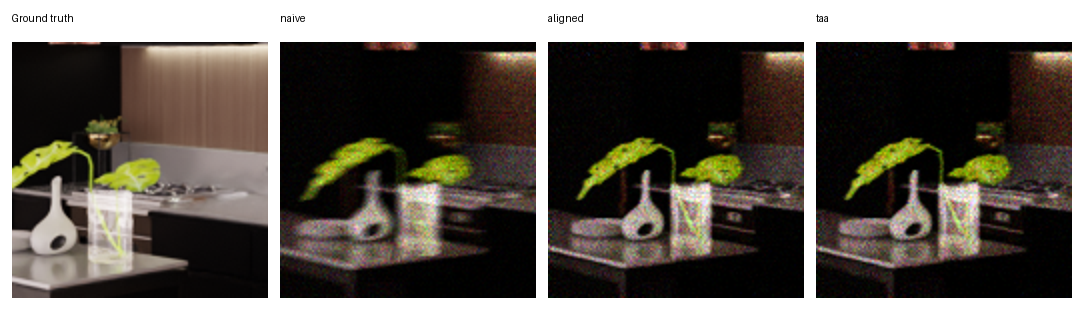
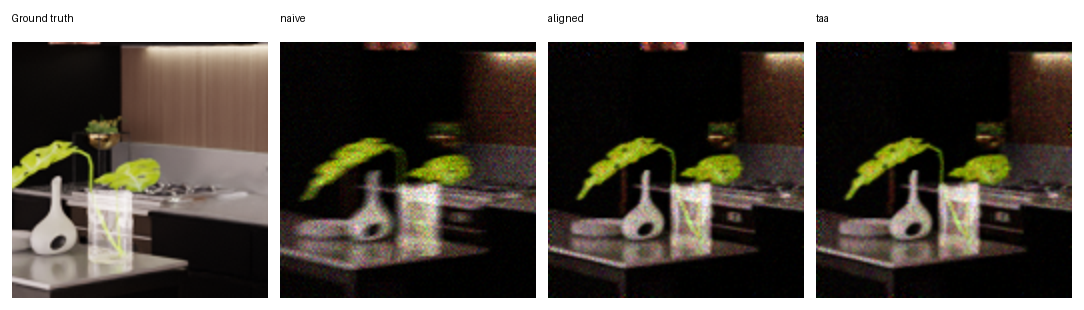
Use reference= instead of reversing bursts in report-table harness
Rebases the Track 4 harness work onto develop after PRs #42 and #43 added
reference= to aligned_average and reconstruct_taa. Reversing the cube would
now swap the first/last labels. Tests and docs updated; sample results
regenerated.

diff --git a/scripts/run_evaluation.py b/scripts/run_evaluation.py
@@ -4,8 +4,9 @@ Examples:
   py scripts/run_evaluation.py --samples data/samples/kitchen1_000000.npz data/samples/kitchen1_000001.npz
   py scripts/run_evaluation.py --scene-dir data/train/kitchen1 --bursts 0 1 10 --crop 250 550 248 552 --frames 1024 --reference last
 
-Reference 'last' reproduces the mid-term report's time-reversed burst
-convention. Every reconstruction uses the same fixed gain (default 2.7).
+Reference 'last' aligns every group to the final group of the burst (the pose
+the ground truth was captured at) via the reference= argument of the pipeline;
+frames are never reversed. Every reconstruction uses the same fixed gain (default 2.7).
 """
 import argparse
 import csv
@@ -60,8 +61,8 @@ def _custom_pipeline(spec, cube, group_size):
     return result
 
 
-def _select_cube(cube, frames=None, crop=None, reference='first'):
-    """Select frames/crop before reconstruction; reverse time for last ref."""
+def _select_cube(cube, frames=None, crop=None):
+    """Select the first N frames and the crop, in original time order."""
     if frames is not None:
         if frames > len(cube):
             raise ValueError(f'requested {frames} frames, only {len(cube)} available')
@@ -71,32 +72,27 @@ def _select_cube(cube, frames=None, crop=None, reference='first'):
         if not (0 <= y0 < y1 <= cube.shape[1] and 0 <= x0 < x1 <= cube.shape[2]):
             raise ValueError(f'crop {crop} is outside the {cube.shape[1:3]} image')
         cube = cube[:, y0:y1, x0:x1]
-    if reference == 'last':
-        cube = cube[::-1]
     return cube
 
 
-def _reconstruct(cube, group_size, extras, report_table=False):
+def _reconstruct(cube, group_size, extras, reference='first', report_table=False):
     if report_table:
-        # Table 1 compared the first and last reference and a clamp-only TAA.
-        # The original last-reference convention runs the same code with time reversed.
-        original = cube
-        reversed_cube = original[::-1]
+        # Table 1 variants. Reference is selected with reference=, not by reversing time.
+        clamp_only = TAAConfig(clamp=True, adaptive=False)
         return {
-            'naive': naive_average(original),
-            'aligned_first': aligned_average(original, group_size)[0],
-            'aligned_last': aligned_average(reversed_cube, group_size)[0],
+            'naive': naive_average(cube),
+            'aligned_first': aligned_average(cube, group_size, reference='first')[0],
+            'aligned_last': aligned_average(cube, group_size, reference='last')[0],
             'clamp_only_last': reconstruct_taa(
-                reversed_cube, group_size, TAAConfig(clamp=True, adaptive=False)
-            ).reconstruction,
+                cube, group_size, clamp_only, reference='last').reconstruction,
             'taa_last': reconstruct_taa(
-                reversed_cube, group_size, TAAConfig()
-            ).reconstruction,
+                cube, group_size, TAAConfig(), reference='last').reconstruction,
         }
 
     methods = {'naive': naive_average(cube),
-               'aligned': aligned_average(cube, group_size, reference="first")[0],
-               'taa': reconstruct_taa(cube, group_size, TAAConfig()).reconstruction}
+               'aligned': aligned_average(cube, group_size, reference=reference)[0],
+               'taa': reconstruct_taa(cube, group_size, TAAConfig(),
+                                      reference=reference).reconstruction}
     for spec in extras:
         label = spec.replace(':', '_')
         if label in methods:
@@ -110,11 +106,11 @@ def _sample_images(path, group_size, extras, frames=None, crop=None, reference='
     gt_path = path.with_name(path.stem + '_gt.png')
     with Image.open(gt_path) as image:
         gt = np.asarray(image.convert('RGB'), dtype=np.float32) / 255
-    cube = _select_cube(cube, frames, crop, 'first' if report_table else reference)
+    cube = _select_cube(cube, frames, crop)
     if crop is not None:
         y0, y1, x0, x1 = crop
         gt = gt[y0:y1, x0:x1]
-    return gt, _reconstruct(cube, group_size, extras, report_table), len(cube)
+    return gt, _reconstruct(cube, group_size, extras, reference, report_table), len(cube)
 
 
 def _full_images(scene_dir, index, group_size, extras, frames, crop, reference, report_table=False):
@@ -124,10 +120,8 @@ def _full_images(scene_dir, index, group_size, extras, frames, crop, reference, 
         raise ValueError(f'burst {index}: requested {frames} frames, got {len(cube)}')
     if not len(cube) or min(cube.shape[1:3]) < 2:
         raise ValueError(f'burst {index}: empty or too-small cube')
-    if reference == 'last' and not report_table:
-        cube = cube[::-1]
     gt = load_gt(scene_dir, index=index, crop=crop)
-    return gt, _reconstruct(cube, group_size, extras, report_table), len(cube)
+    return gt, _reconstruct(cube, group_size, extras, reference, report_table), len(cube)
 
 
 def _archive_images(path):
@@ -163,11 +157,11 @@ def main(argv=None):
                         help='indices in --scene-dir; default: 0 1 10')
     parser.add_argument('--crop', nargs=4, metavar=('Y0', 'Y1', 'X0', 'X1'), type=int,
                         help='pixel bounds, exclusive upper end; full-burst X bounds multiples of 8')
-    parser.add_argument('--frames', type=int, help='use the first N frames (before reversing)')
+    parser.add_argument('--frames', type=int, help='use the first N frames')
     parser.add_argument('--report-table', action='store_true',
                         help='compute all five original Table 1 method variants with PSNR and SSIM')
     parser.add_argument('--reference', choices=('first', 'last'), default='first',
-                        help='last reverses time exactly as in mid-term Table 1')
+                        help='align to the first or last group (ignored with --report-table)')
     parser.add_argument('--group-size', type=int, default=64)
     parser.add_argument('--gain', type=float, default=DEFAULT_EVALUATION_GAIN,
                         help='same fixed reconstruction gain for all scenes/methods; default 2.7')
@@ -182,6 +176,8 @@ def main(argv=None):
     crop = _check_crop(args.crop, parser, packed=args.scene_dir is not None)
     if args.report_table and args.pipeline:
         parser.error('--report-table uses the five original methods; additional --pipeline not supported')
+    if args.pipeline and args.reference == 'last':
+        parser.error('--pipeline functions take no reference argument; use --reference first')
     if args.archives and args.report_table:
         parser.error('--report-table requires raw cubes, not precomputed archives')
     if args.archives and (args.pipeline or args.frames is not None or crop is not None or args.reference != 'first'):
@@ -248,13 +244,13 @@ def main(argv=None):
             'scene_dir': str(args.scene_dir) if args.scene_dir else None,
             'bursts': args.bursts if args.scene_dir else None,
             'crop_y0_y1_x0_x1': list(crop) if crop is not None else None,
-            'frame_selection': 'first N frames, then reverse for last reference' if args.frames is not None else 'all available frames, reverse for last reference',
+            'frame_selection': 'first N frames, original time order' if args.frames is not None else 'all available frames, original time order',
             'frames_requested': args.frames,
             'frames_used': counts_by_burst,
             'group_size': args.group_size if not args.archives else None,
             'reference_group': ('mixed first/last as in Table 1' if args.report_table else args.reference) if not args.archives else 'unknown; precomputed archive',
             'report_table_variants': args.report_table,
-            'reference_implementation': 'reverse full selected cube for last-group methods; preserve first group for aligned_first' if args.report_table else 'reverse the frame order; existing first-group pipeline selects original last group' if args.reference == 'last' and not args.archives else 'native first group or precomputed archive',
+            'reference_implementation': 'reference= argument of aligned_average and reconstruct_taa; frames are never reversed',
             'intensity_rule': 'clip(gain * reconstruction, 0, 1)',
             'intensity_policy': 'fixed gain for all methods/scenes; no per-image or GT-fitted gains',
             'gain': args.gain,

diff --git a/tests/test_evaluation_harness.py b/tests/test_evaluation_harness.py
@@ -11,18 +11,17 @@ from scripts.run_evaluation import (_check_crop, _full_images, _select_cube, _re
 
 
 class HarnessTests(unittest.TestCase):
-    def test_last_reference_is_time_reversal_after_frame_selection(self):
+    def test_frame_selection_keeps_time_order(self):
         cube = np.arange(6, dtype=np.uint8).reshape(6, 1, 1, 1)
-        selected = _select_cube(cube, frames=4, reference='last')
-        np.testing.assert_array_equal(selected[:, 0, 0, 0], [3, 2, 1, 0])
-        np.testing.assert_array_equal(cube[:, 0, 0, 0], np.arange(6))
+        selected = _select_cube(cube, frames=4)
+        np.testing.assert_array_equal(selected[:, 0, 0, 0], [0, 1, 2, 3])
 
     def test_crop_applies_to_cube(self):
         cube = np.arange(4 * 8 * 16 * 3, dtype=np.int32).reshape(4, 8, 16, 3)
         selected = _select_cube(cube, frames=3, crop=(2, 6, 8, 16))
         np.testing.assert_array_equal(selected, cube[:3, 2:6, 8:16])
 
-    def test_full_burst_reverses_before_reconstruction(self):
+    def test_full_burst_is_not_reversed(self):
         cube = np.arange(5, dtype=np.uint8)[:, None, None, None]
         cube = np.broadcast_to(cube, (5, 8, 8, 3)).copy()
         gt = np.zeros((8, 8, 3), dtype=np.float32)
@@ -30,20 +29,23 @@ class HarnessTests(unittest.TestCase):
               patch('scripts.run_evaluation.load_gt', return_value=gt),
               patch('scripts.run_evaluation._reconstruct', return_value={'naive': gt}) as recon):
             out_gt, _, count = _full_images('unused', 10, 64, [], 5, None, 'last')
-        np.testing.assert_array_equal(recon.call_args.args[0][0], 4)
-        np.testing.assert_array_equal(recon.call_args.args[0][-1], 0)
+        np.testing.assert_array_equal(recon.call_args.args[0][0], 0)
+        np.testing.assert_array_equal(recon.call_args.args[0][-1], 4)
+        self.assertEqual(recon.call_args.args[3], 'last')
         self.assertEqual(count, 5)
         np.testing.assert_array_equal(out_gt, gt)
 
     def test_report_table_five_variants(self):
         from src.taa import TAAResult
         cube = np.random.default_rng(7).integers(0, 2, (4, 8, 16, 3), dtype=np.uint8)
-        with (patch('scripts.run_evaluation.aligned_average', side_effect=lambda c, g: (c[0].astype(np.float32), None)) as align,
-              patch('scripts.run_evaluation.reconstruct_taa', side_effect=lambda c, g, config: TAAResult(c[0].astype(np.float32), None, None, None, None)) as taa):
+        with (patch('scripts.run_evaluation.aligned_average',
+                    side_effect=lambda c, g, reference: (c[0 if reference == 'first' else -1].astype(np.float32), None)) as align,
+              patch('scripts.run_evaluation.reconstruct_taa',
+                    side_effect=lambda c, g, config, reference: TAAResult(c[-1].astype(np.float32), None, None, None, None)) as taa):
             results = _reconstruct(cube, 2, [], report_table=True)
         self.assertEqual(set(results), {'naive', 'aligned_first', 'aligned_last', 'clamp_only_last', 'taa_last'})
-        self.assertEqual(align.call_count, 2)
-        self.assertEqual(taa.call_count, 2)
+        self.assertEqual([c.kwargs['reference'] for c in align.call_args_list], ['first', 'last'])
+        self.assertEqual([c.kwargs['reference'] for c in taa.call_args_list], ['last', 'last'])
         np.testing.assert_array_equal(results['aligned_first'], cube[0])
         np.testing.assert_array_equal(results['aligned_last'], cube[-1])
         self.assertFalse(taa.call_args_list[0].args[2].adaptive)

diff --git a/docs/midTerm-evaluation.md b/docs/midTerm-evaluation.md
@@ -14,7 +14,7 @@ py -m unittest discover -s tests -v
 
 Download the shared kitchen1 data and make sure the folder contains bursts 0, 1, and 10, along with their ground-truth PNGs.
 
-The October 29 report used a 300×304 center crop, 1024 frames, groups of 64, and the last group as the reference. For the last-group runs, the burst was reversed before running the original alignment code.
+The October 29 report used a 300×304 center crop, 1024 frames, groups of 64, and the last group as the reference. The last-group runs now use the `reference="last"` option of `aligned_average` and `reconstruct_taa` (added in PRs #42 and #43) instead of reversing the burst, so frames are always processed in their original order.
 
 To run the same five methods with these settings:
 
